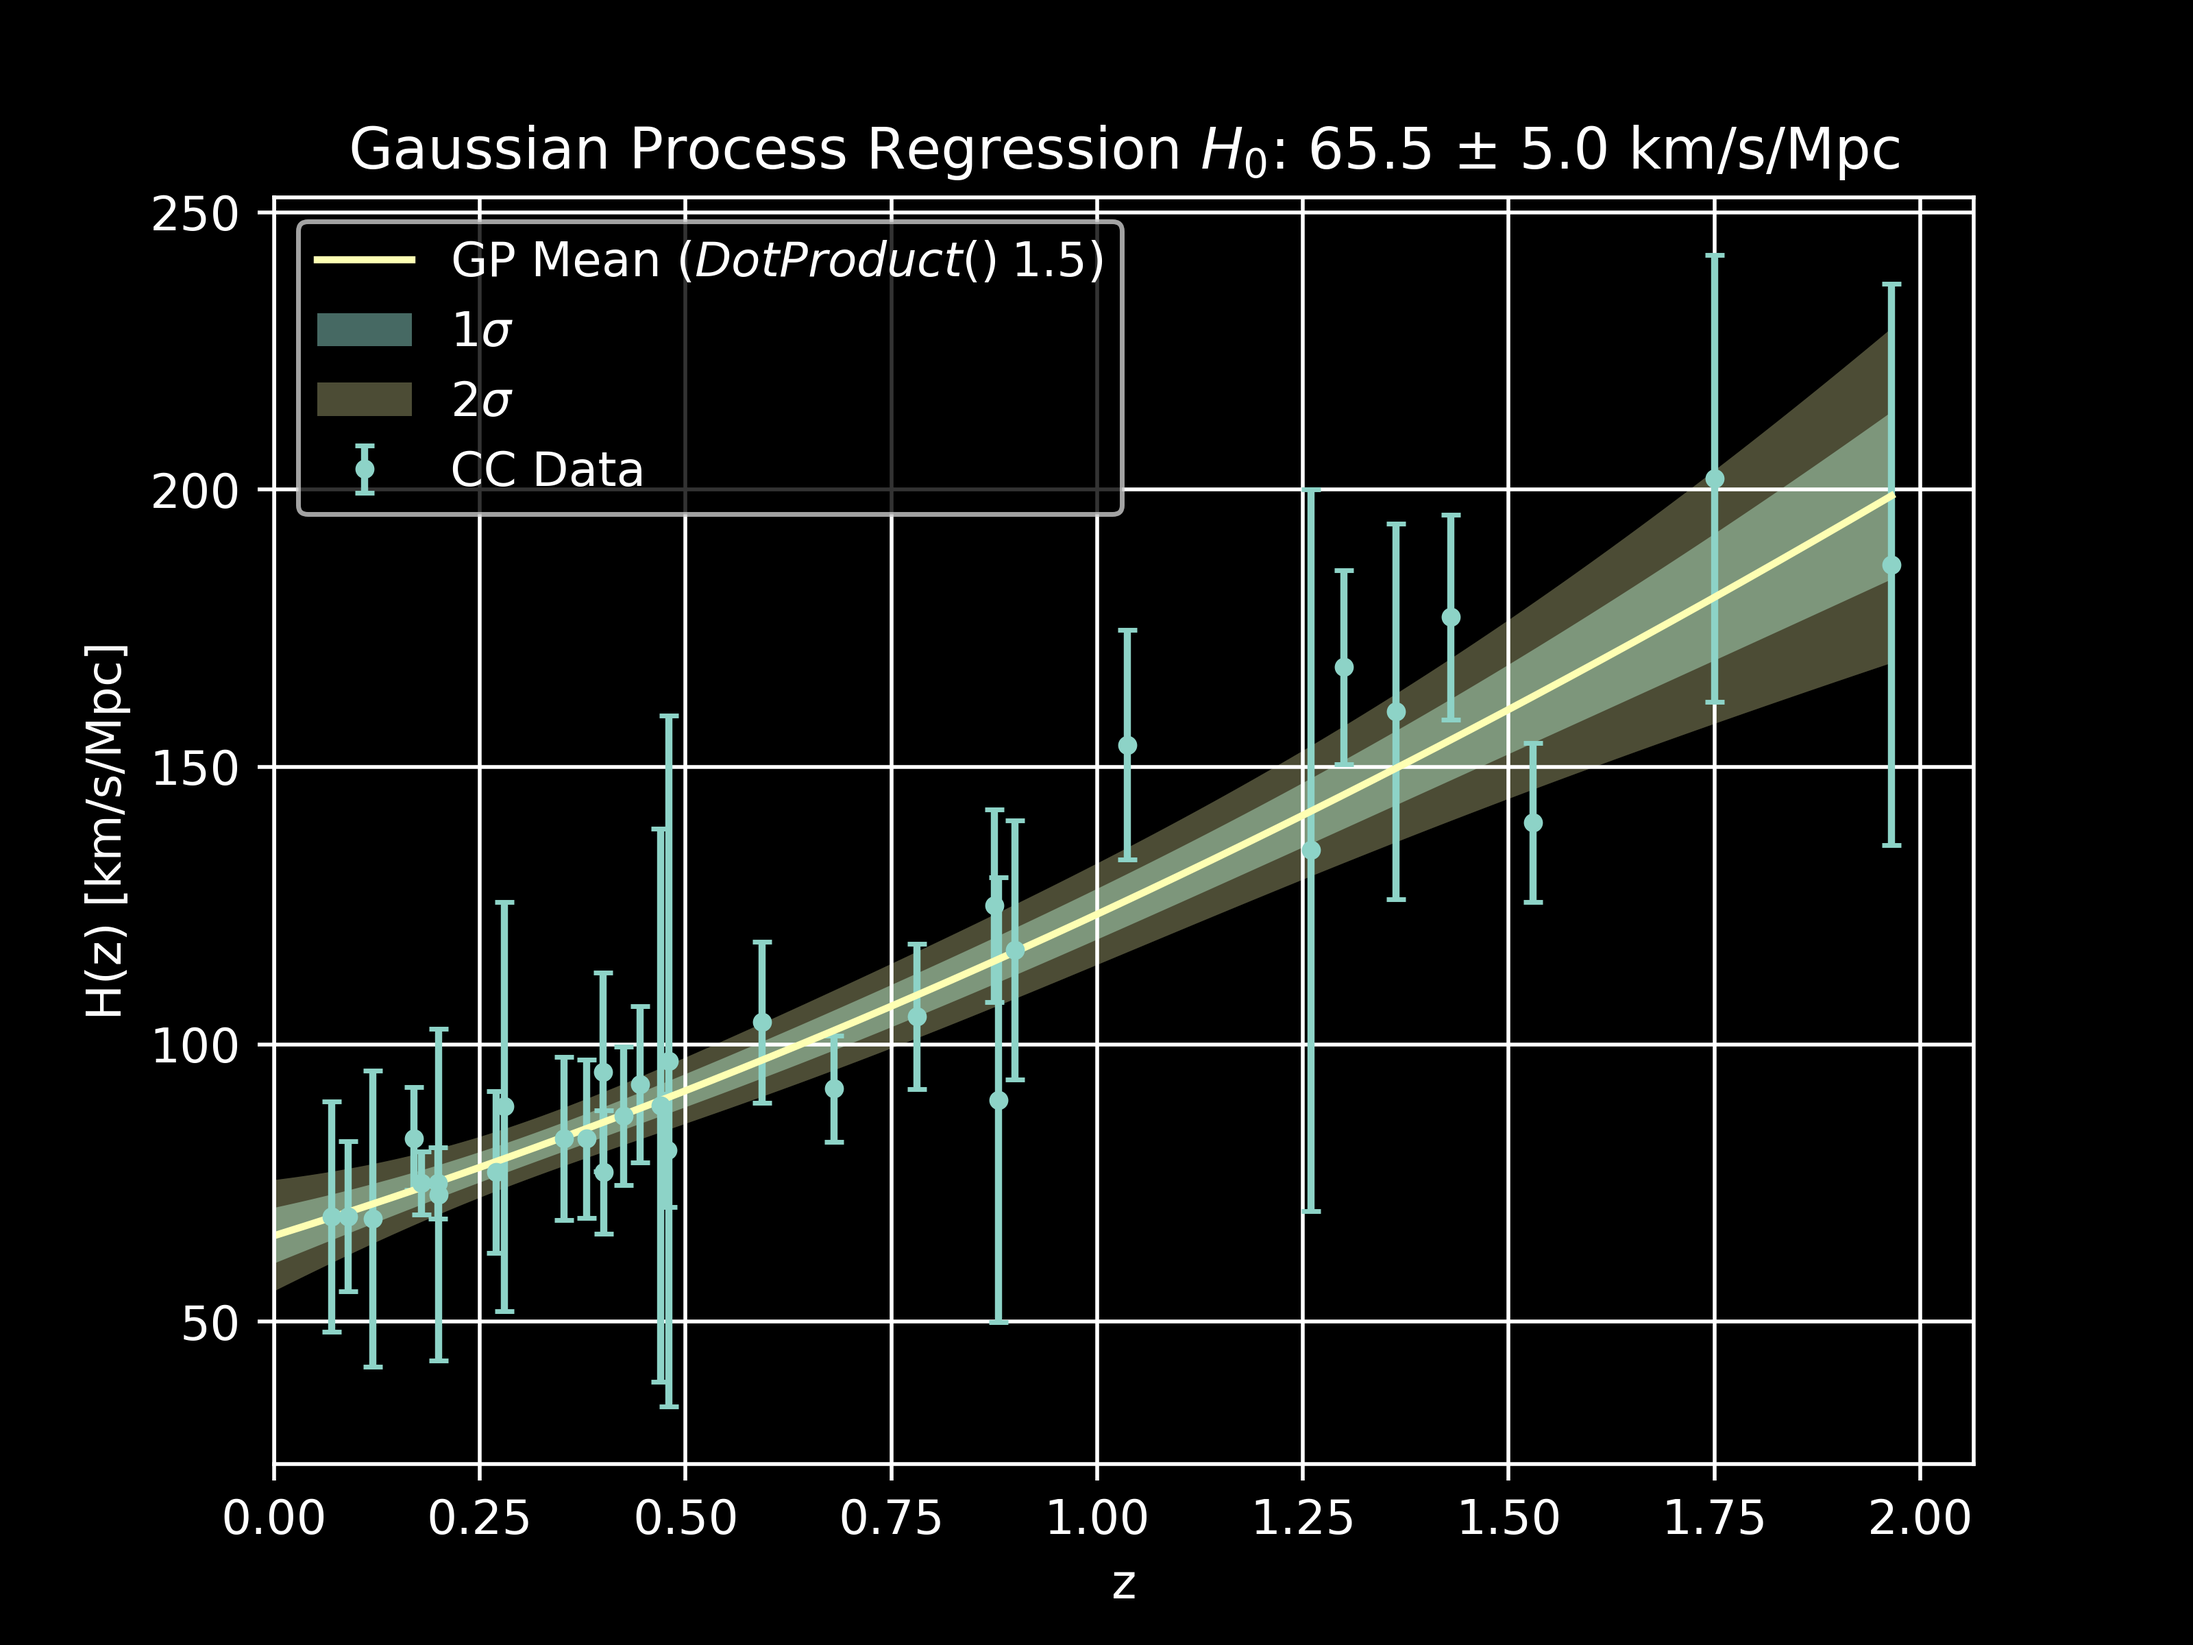
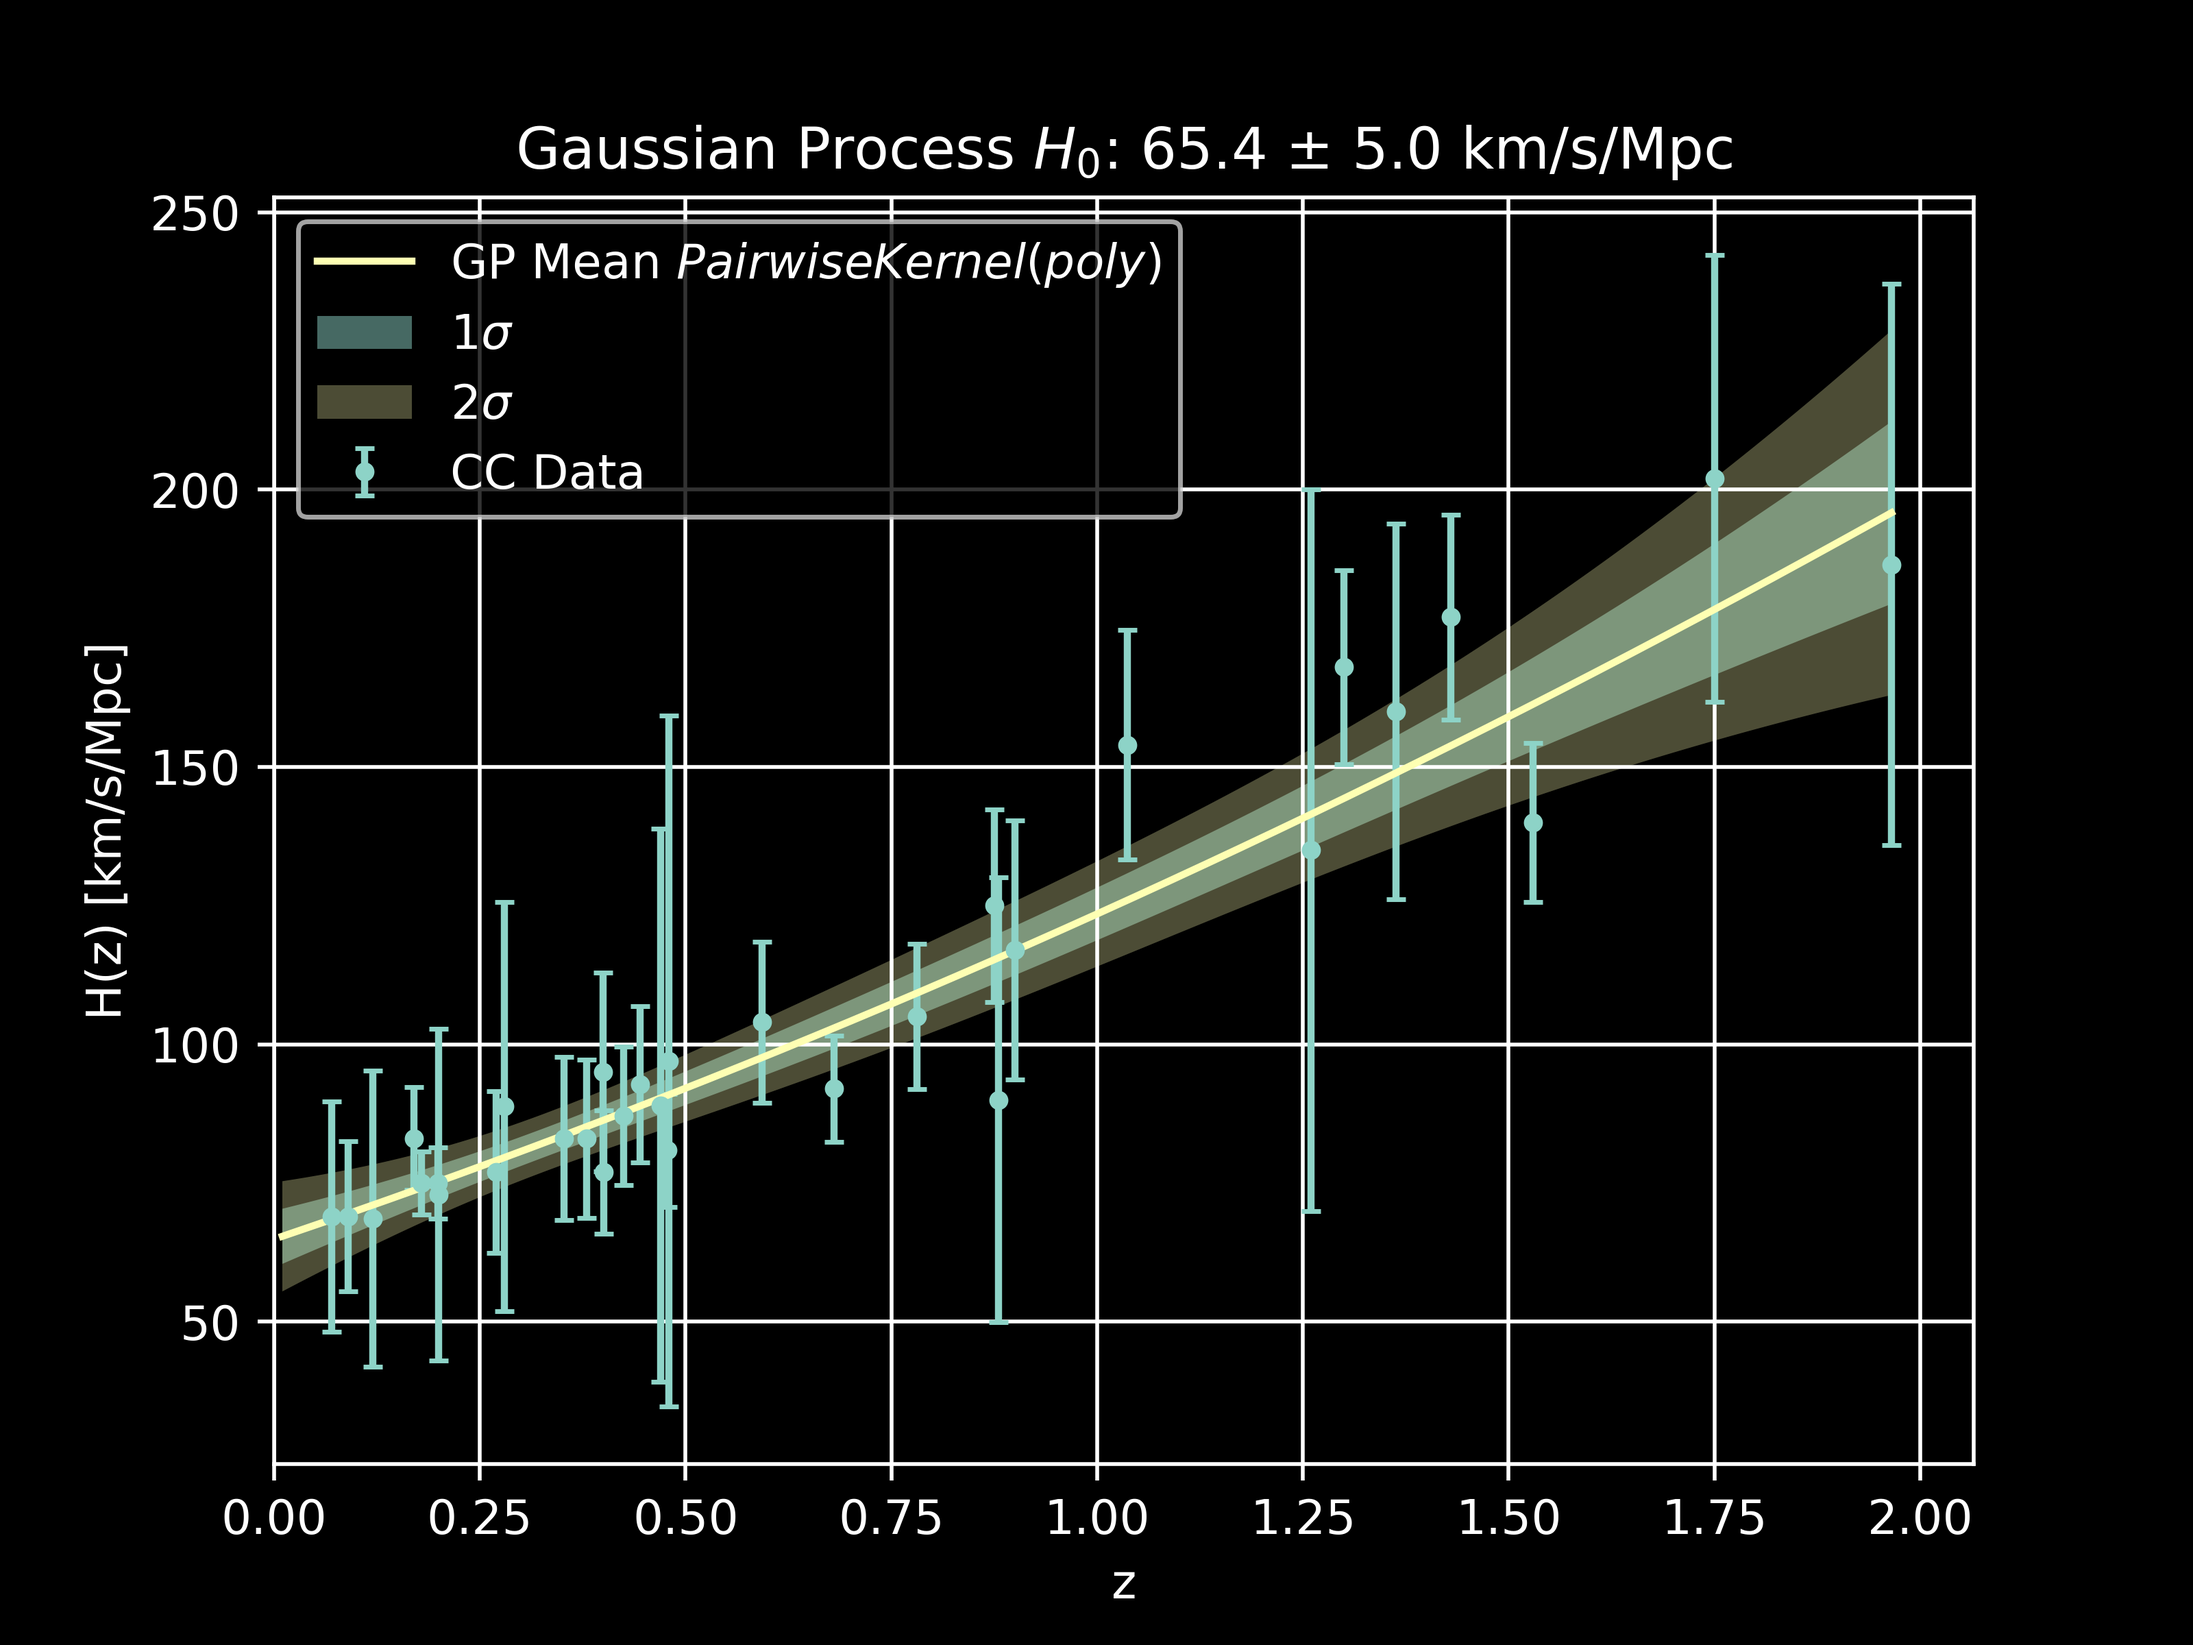
cc

diff --git a/cosmic_chronometers/cc_gp.py b/cosmic_chronometers/cc_gp.py
@@ -1,7 +1,8 @@
 import numpy as np
 import matplotlib.pyplot as plt
+from matplotlib.colors import LogNorm
 from sklearn.gaussian_process import GaussianProcessRegressor
-from sklearn.gaussian_process.kernels import ConstantKernel as C, DotProduct
+from sklearn.gaussian_process.kernels import ConstantKernel as C, PairwiseKernel
 from y2005cc.data import get_data
 
 legend, z_values, H_values, cov_matrix = get_data()
@@ -12,28 +13,57 @@ z_pred = np.linspace(0, z_values.max(), 500).reshape(-1, 1)
 
 # Define DotProduct kernel
 gp = GaussianProcessRegressor(
-    kernel = C(34**2) * DotProduct(1.5)**1.5,
+    kernel = C(114**2) * PairwiseKernel(metric='poly', gamma=0.02),
     alpha = dH_values**2,
     normalize_y = False,
-    n_restarts_optimizer = 100,
+    n_restarts_optimizer = 10,
 )
-gp.fit(z_values, H_values)
+gp.fit(z_values.reshape(-1,1), H_values.reshape(-1,1))
 
 H_pred, sigma = gp.predict(z_pred, return_std=True)
-print("H0", f"{H_pred[0]:.2f} ± {sigma[0]:.2f}") # H0 65.5 ± 5.0 km/s/Mpc
+print("H0", f"{H_pred[0]:.2f} ± {sigma[0]:.2f}") # H0 65.40 ± 4.97 km/s/Mpc
 print("GP score:", gp.score(z_values, H_values)) # 0.9
-print("GP marginal likelihood value", gp.log_marginal_likelihood_value_) # -137.51
+print("GP marginal likelihood value", gp.log_marginal_likelihood_value_) # -138.24
 print("GP kernel", gp.kernel_)
 
-plt.style.use('dark_background')  # Enable dark mode
+plt.style.use('dark_background')
 plt.errorbar(z_values, H_values, yerr=dH_values, fmt='.', label='CC Data', capsize=2)
-plt.plot(z_pred, H_pred, label='GP Mean ($DotProduct() ^ 1.5$)')
+plt.plot(z_pred, H_pred, label='GP Mean $PairwiseKernel(poly)$')
 plt.fill_between(z_pred.ravel(), H_pred - sigma, H_pred + sigma, alpha=0.5, label=r'$1\sigma$')
-plt.fill_between(z_pred.ravel(), H_pred - 2*sigma, H_pred + 2*sigma, alpha=0.3, label=r'$2\sigma$')
+plt.fill_between(z_pred.ravel(), H_pred - 2 * sigma, H_pred + 2 * sigma, alpha=0.3, label=r'$2\sigma$')
 plt.xlabel('z')
 plt.xlim(0, np.max(z_values) + 0.1)
 plt.ylabel('H(z) [km/s/Mpc]')
 plt.title(f'Gaussian Process $H_0$: {H_pred[0]:.1f} ± {sigma[0]:.1f} km/s/Mpc')
 plt.legend()
 plt.grid(True)
-plt.show()
+plt.savefig('cosmic_chronometers/cc_gp.png', dpi=500)
+plt.close()
+
+# Likelihood function
+c0 = np.logspace(2, 7, num=100)
+gamma = np.logspace(-5, 3, num=100)
+c0_grid, gamma_grid = np.meshgrid(c0, gamma)
+
+log_marginal_likelihood = [
+    gp.log_marginal_likelihood(theta=np.log([c0_v, gamma_v]))
+    for c0_v, gamma_v in zip(c0_grid.ravel(), gamma_grid.ravel())
+]
+log_marginal_likelihood = np.reshape(log_marginal_likelihood, gamma_grid.shape)
+vmin, vmax = (-log_marginal_likelihood).min(), 150
+level = np.around(np.logspace(np.log10(vmin), np.log10(vmax), num=20), decimals=1)
+plt.contour(
+    c0_grid,
+    gamma_grid,
+    -log_marginal_likelihood,
+    levels=level,
+    norm=LogNorm(vmin=vmin, vmax=vmax),
+)
+plt.colorbar()
+plt.xscale("log")
+plt.yscale("log")
+plt.xlabel("$c_0$")
+plt.ylabel("$\gamma$")
+plt.title("Negative log-marginal-likelihood")
+plt.savefig('cosmic_chronometers/cc_gp_likelihood.png', dpi=500)
+plt.close()
